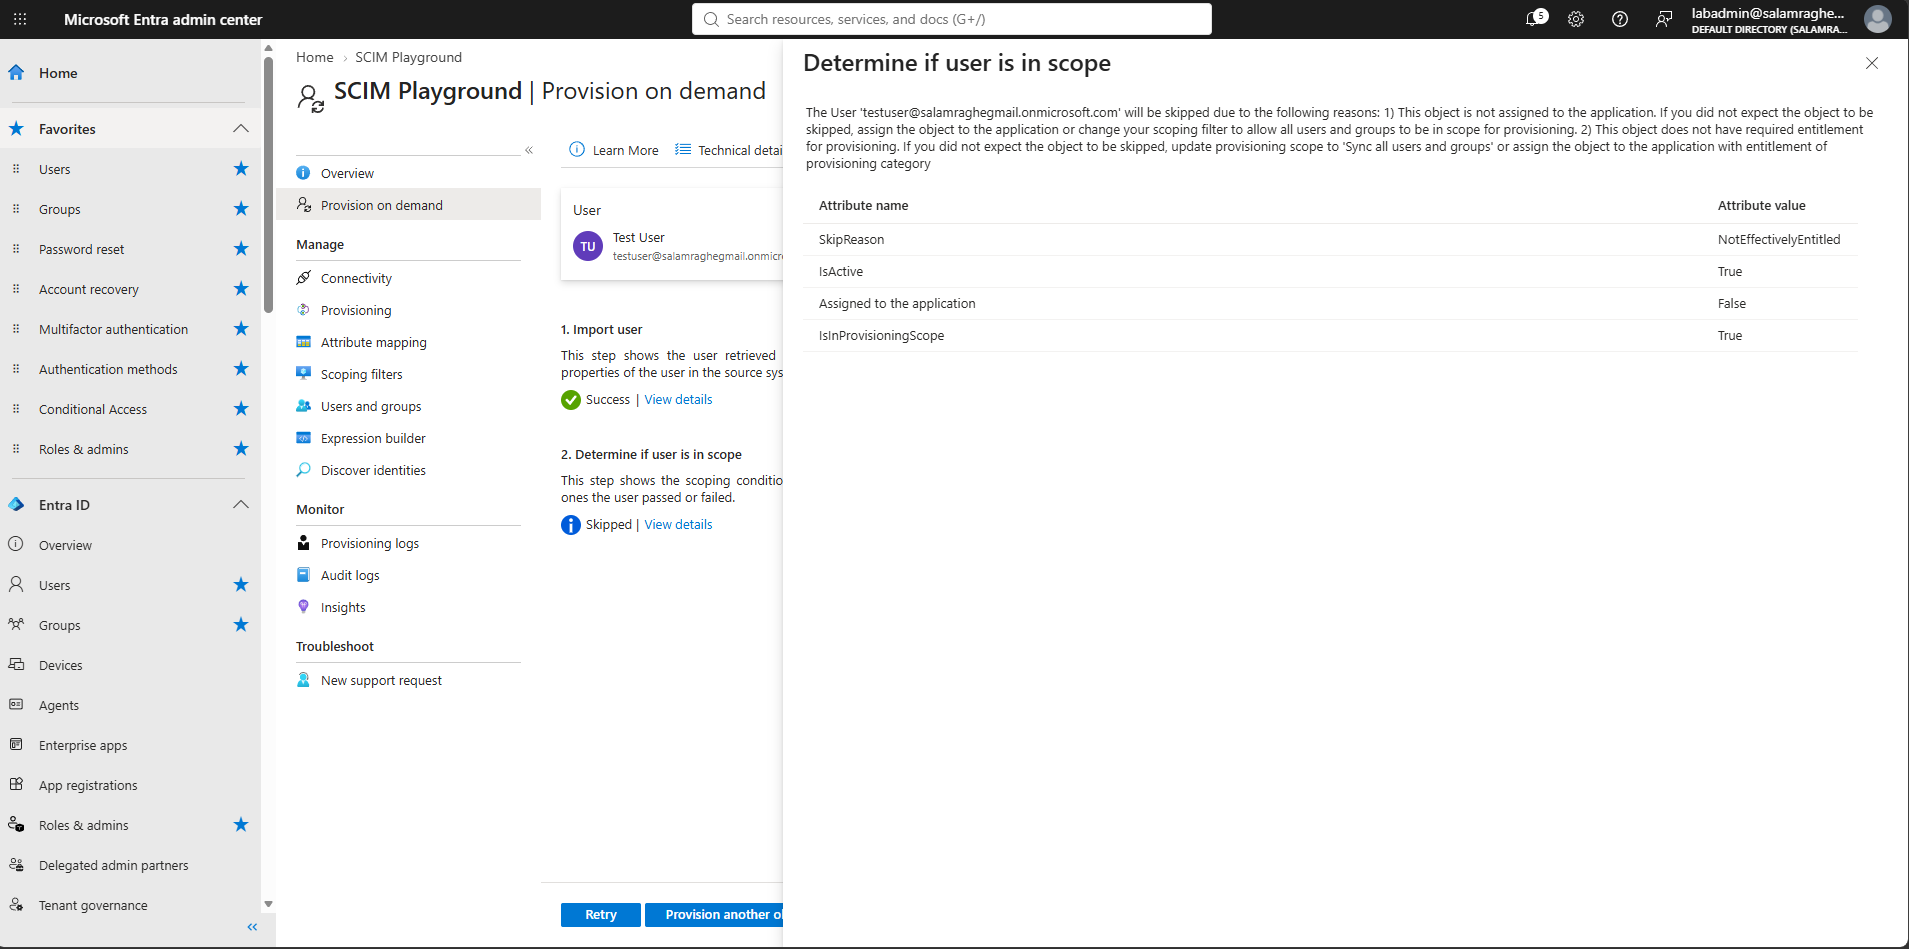
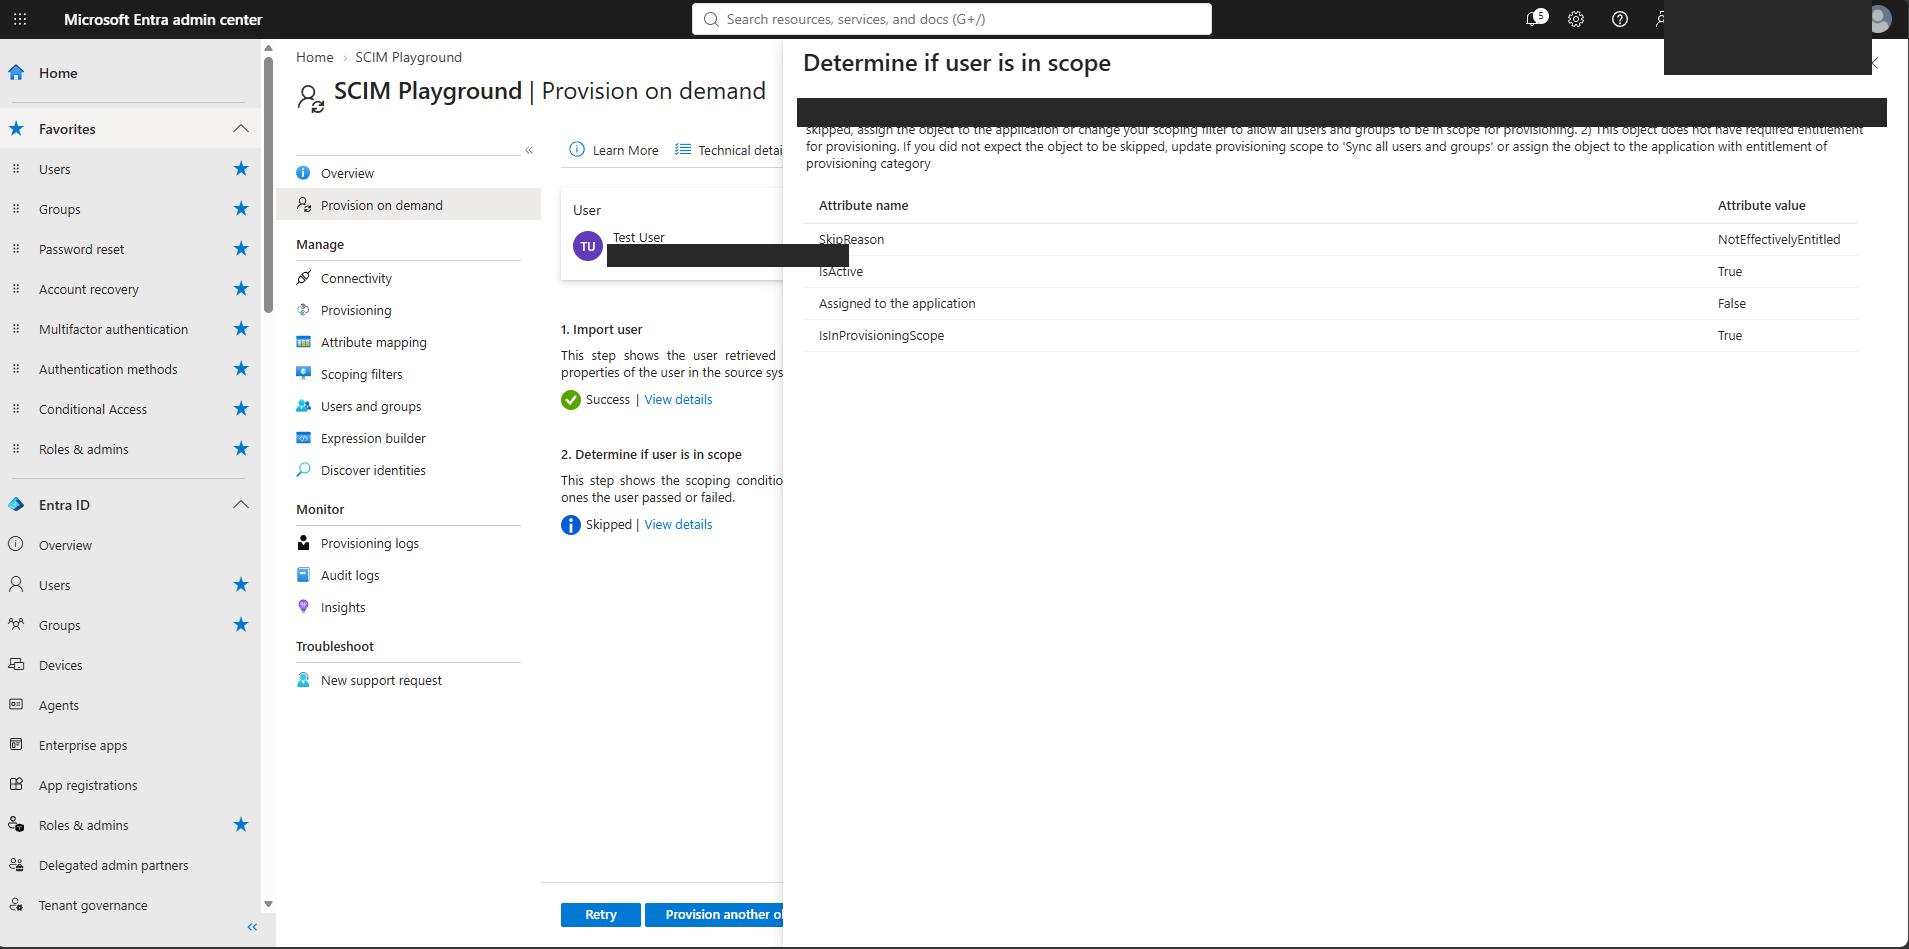
Apply Coach corrections; redact tenant name and token in screenshots

Changed region(s): [[0.4018, 0.0, 0.989, 0.1528], [0.3091, 0.2445, 0.4636, 0.3056]]

diff --git a/README.md b/README.md
@@ -1,6 +1,8 @@
-# Entra ID SCIM Provisioning (to scim.dev)
+# Entra ID SCIM Provisioning to scim.dev
 
-Hands-on lab, October 2026.
+Hands-on lab, October 2026 (done Oct 20).
+
+> **Status:** joiner (create) proven end to end. **Leaver (deactivate) is PARTIAL:** the disable is proven on the Entra side only. This is not an end-to-end deprovisioning demo.
 
 ## What this is and why it matters
 
@@ -15,7 +17,7 @@ This is how companies stop doing app accounts by hand: the identity provider bec
 | Identity provider | Microsoft Entra ID (lab tenant) |
 | Target app | **SCIM Playground** at [scim.dev](https://scim.dev) (free test server) |
 | Tenant URL | `https://api.scim.dev/scim/v2` |
-| Auth | Bearer token (scim.dev's public free playground key; masked in Entra) |
+| Auth | Bearer token (blacked out in screenshots; masked in Entra) |
 | Test user | Test User |
 
 ## Steps
@@ -52,16 +54,16 @@ All 4 steps succeeded, and Entra sent `emails[type eq "work"].value`, `userName`
 
 ### 7. Scope check: an unassigned user is skipped
 
-When Test User wasn't assigned to the app, Entra skipped them (`Assigned to the application: False`, `NotEffectivelyEntitled`). Only assigned users get accounts.
+When Test User wasn't assigned to the app, on-demand provisioning returned **Skipped** (`Assigned to the application: False`, `NotEffectivelyEntitled`). On-demand provisioning only handles assigned users.
 
 ![Unassigned skipped](screenshots/12-unassigned-skipped.png)
 ![Unassigned skipped details](screenshots/11-unassigned-skipped-details.png)
 
-### 8. Leaver: disable Test User in Entra
+### 8. Leaver (PARTIAL): disable Test User in Entra
 
 ![Test User disabled](screenshots/13-testuser-disabled.png)
 
-Provision on demand now shows `IsActive: False` while `Assigned to the application: True`, meaning "not active in the source system." Entra flags the user to be shut off in the app.
+Provision on demand now shows `IsActive: False` while `Assigned to the application: True` ("not active in the source system"). The result was **Skipped**, so this proves the disable on the Entra side. It does **not** show the account deactivated in the app.
 
 ![Leaver IsActive False](screenshots/14-leaver-isactive-false.png)
 
@@ -71,7 +73,7 @@ Provision on demand now shows `IsActive: False` while `Assigned to the applicati
 
 ## Honest note
 
-scim.dev's free playground resets its data, so I couldn't show the account flipped to inactive on the app side. The shut-off is shown on the Entra side instead (`IsActive False`, still assigned).
+The leaver step is **partial**. On-demand provisioning returned Skipped for the disabled user, and scim.dev's free playground resets its data, so the app-side deactivate is not shown. What is proven: the disable on the Entra side (`IsActive False`, still assigned). I'm not claiming end-to-end deprovisioning.
 
 ## Skills shown
 
@@ -82,5 +84,5 @@ scim.dev's free playground resets its data, so I couldn't show the account flipp
 
 ## Notes
 
-- App ID, object IDs, the provisioning job ID and the browser URL bar were blacked out in screenshots 03, 04, 05 and 13.
+- Blacked out in screenshots: app/object IDs, the provisioning job ID, browser URL bars, the scim.dev token, and the tenant name (account email and user names).
 - Lab tenant and test accounts only.
